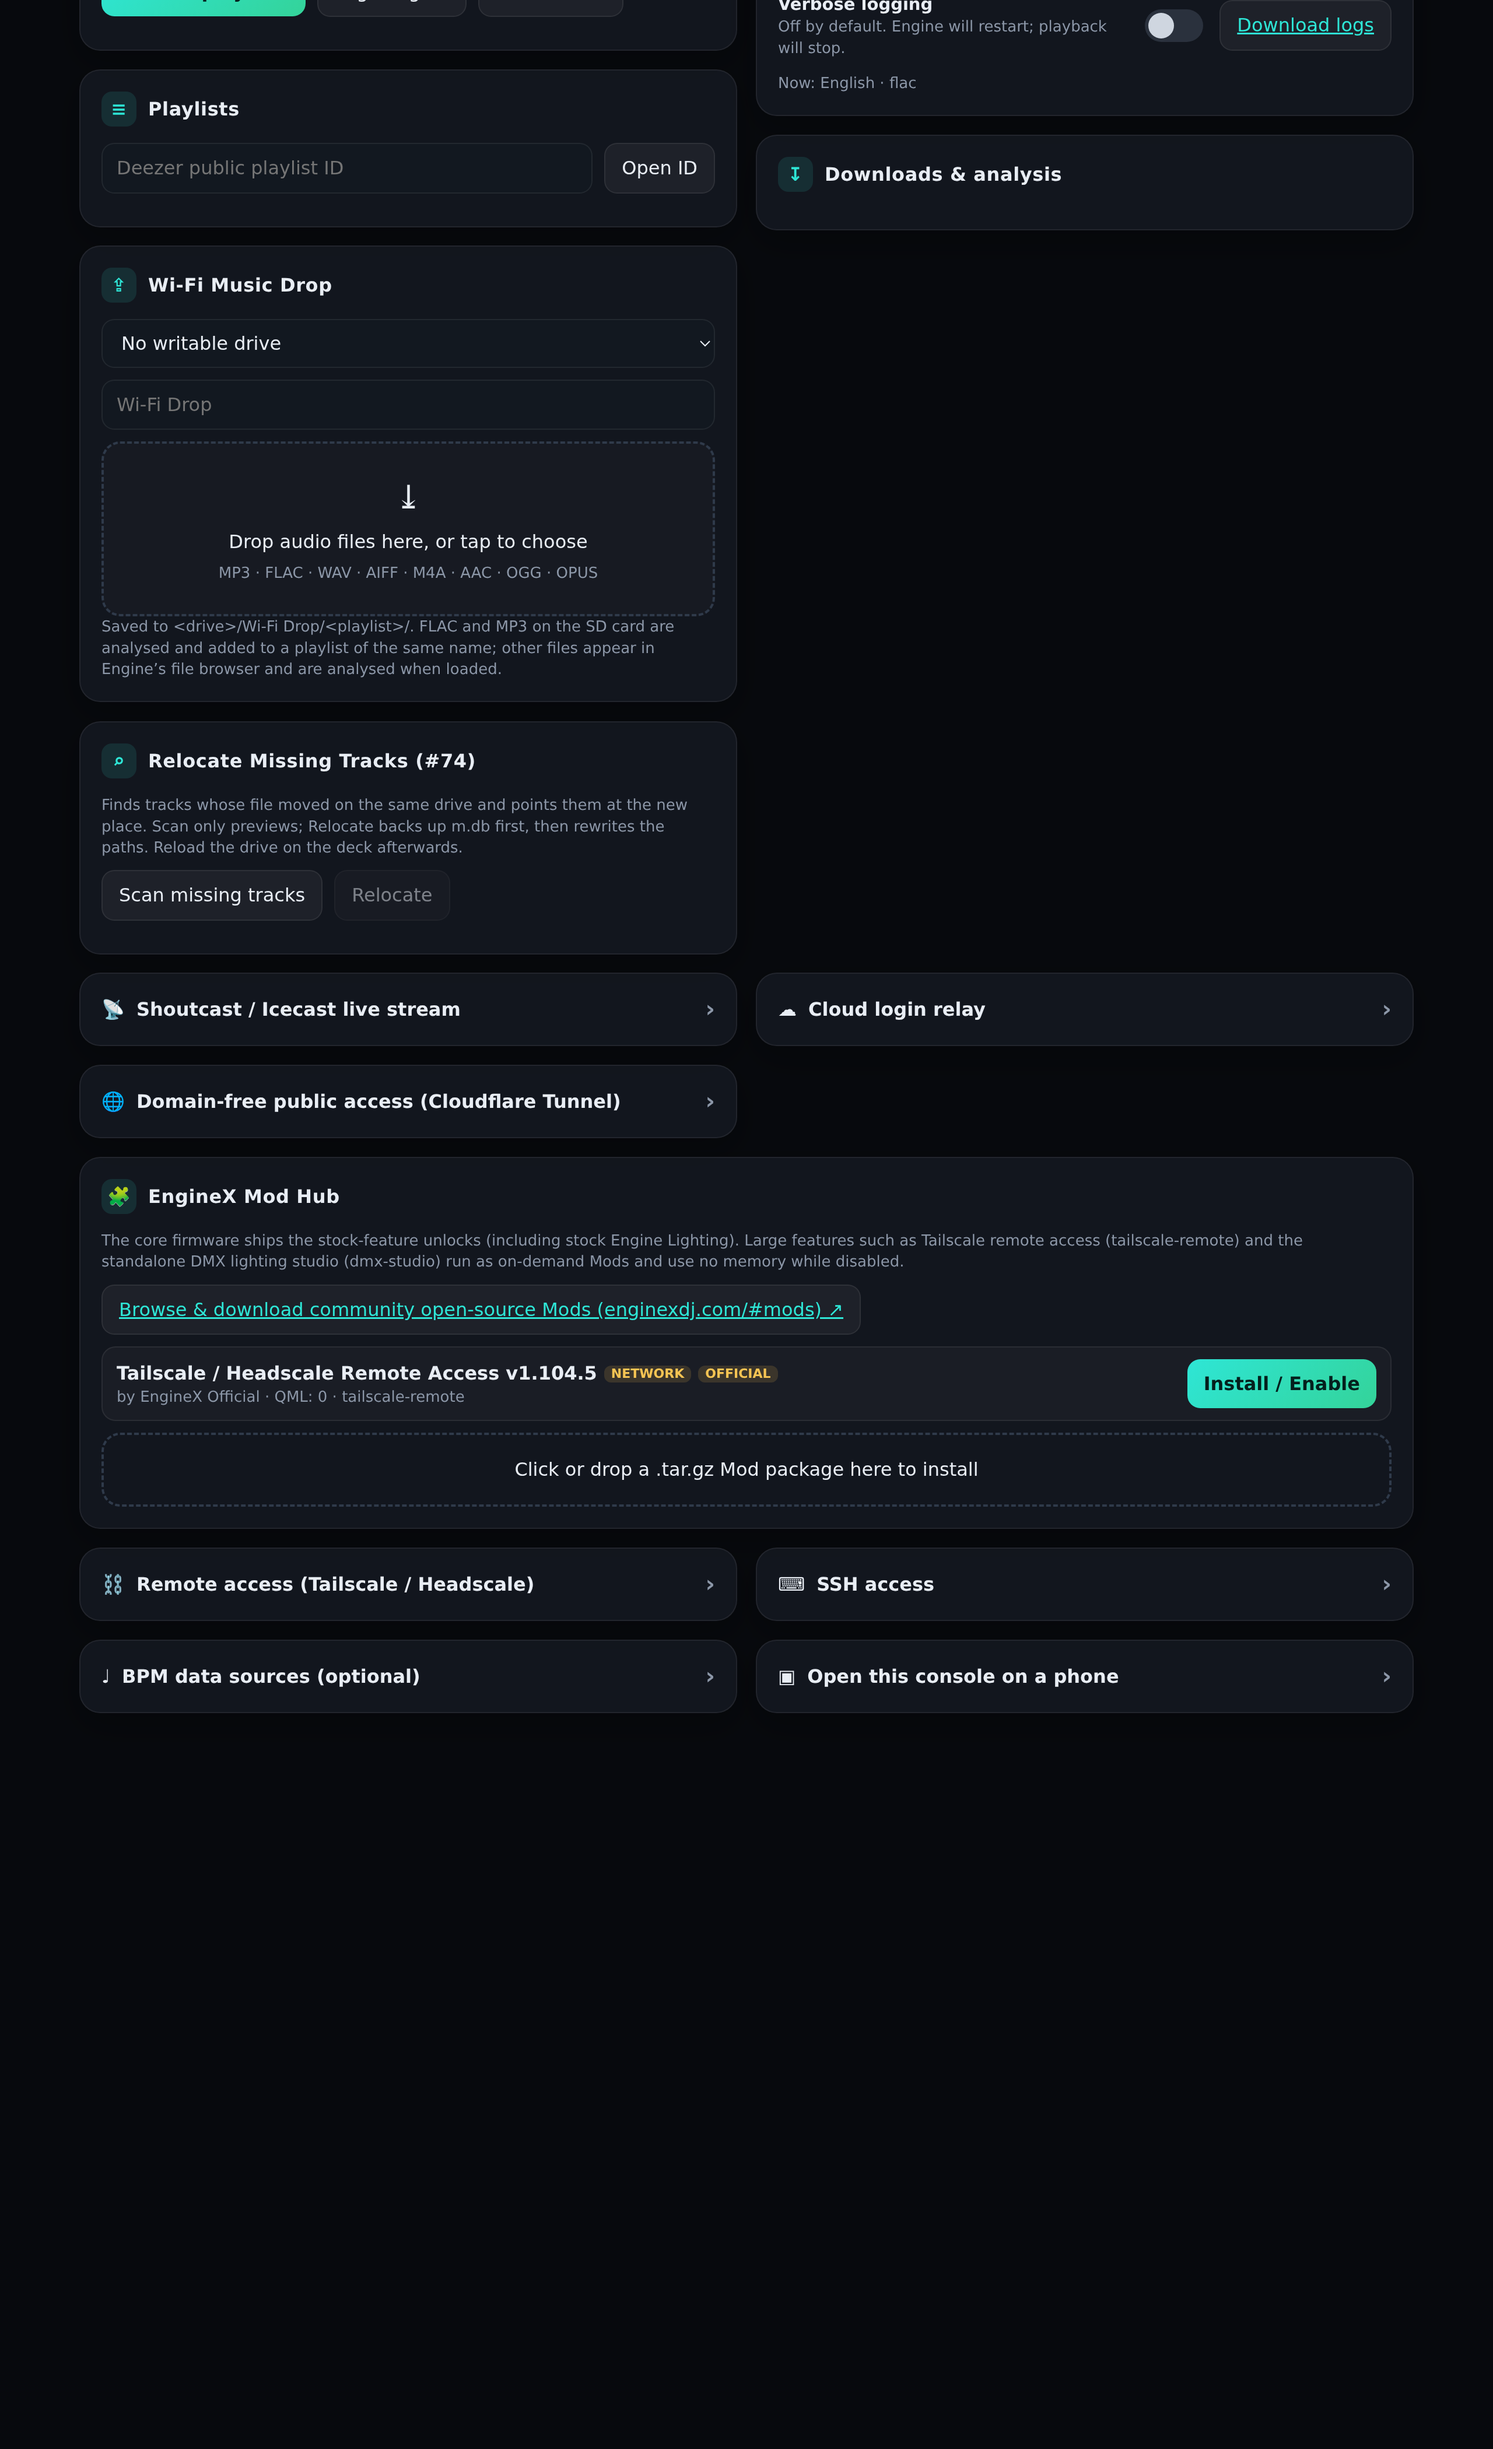
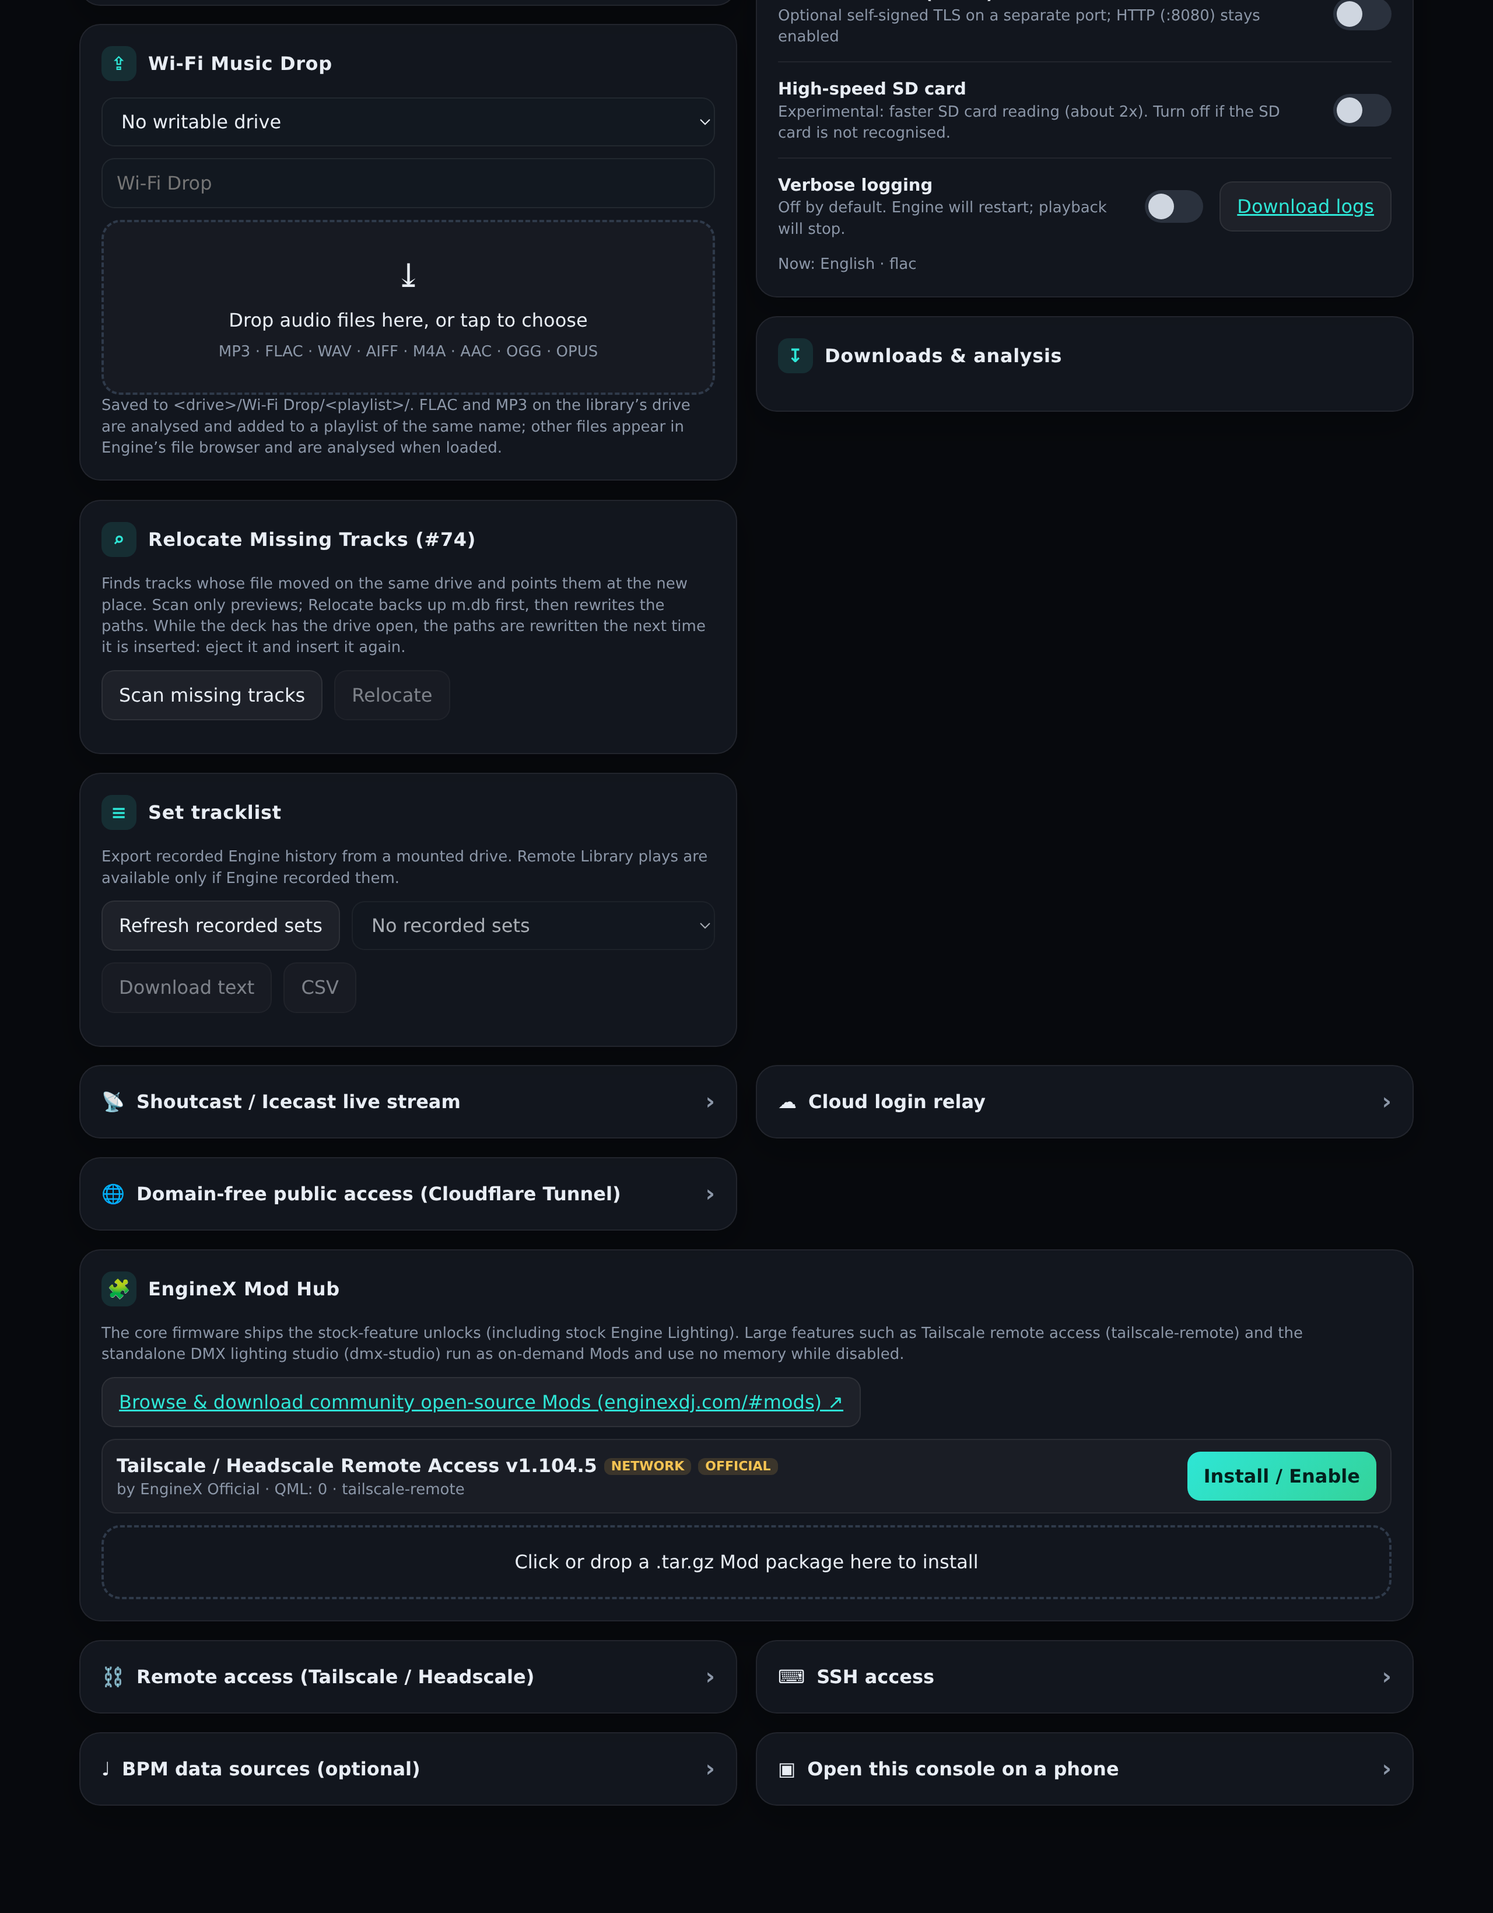
docs(shots): re-render the web console shots (14, 15) at 5.3.0.5 in three languages
v5.3.0.5 badge, Español button and deck language, Reverse jog wheel, Bluetooth speaker output,
HTTPS console, High-speed SD card and the Set tracklist card; 15 shows the lower cards. Captions
name the Set tracklist card; content.js cache parameter bumped.

diff --git a/docs/site/content.js b/docs/site/content.js
@@ -714,7 +714,7 @@
           L("曲库所在盘上的 FLAC / MP3 会自动分析并加入同名歌单；不覆盖已有文件，始终保留 256 MiB 空间。", "曲庫所在碟上的 FLAC / MP3 會自動分析並加入同名歌單；不覆蓋既有檔案，始終保留 256 MiB 空間。", "FLAC / MP3 on the library's drive are analysed and added to the same-named playlist automatically; existing files are never overwritten and 256 MiB stays free."),
         ] },
         { k: "shot", name: "14-webui-console.png", cap: L("Web 控制台（v" + V + "）：流媒体与账号、歌单、Wi-Fi 传歌、碟机显示与音频", "Web 主控台（v" + V + "）：串流與帳號、歌單、Wi-Fi 傳歌、碟機顯示與音訊", "Web console (v" + V + "): Streaming & accounts, Playlists, Wi-Fi Music Drop, and Deck display & audio") },
-        { k: "shot", name: "15-webui-wifi-drop.png", cap: L("Web 控制台（v" + V + "）：Wi-Fi 传歌、丢失曲目重定位、直播推流与 Mod 插件中心", "Web 主控台（v" + V + "）：Wi-Fi 傳歌、遺失曲目重新定位、直播推流與 Mod 外掛中心", "Web console (v" + V + "): Wi-Fi Music Drop, Relocate Missing Tracks, Live Stream, and Mod Hub") },
+        { k: "shot", name: "15-webui-wifi-drop.png", cap: L("Web 控制台（v" + V + "）：Wi-Fi 传歌、丢失曲目重定位、演出曲目表、直播推流与 Mod 插件中心", "Web 主控台（v" + V + "）：Wi-Fi 傳歌、遺失曲目重新定位、演出曲目表、直播推流與 Mod 外掛中心", "Web console (v" + V + "): Wi-Fi Music Drop, Relocate Missing Tracks, Set tracklist, Live Stream, and Mod Hub") },
         { k: "h", id: "relocate", x: L("曲库丢歌：一键重定位", "曲庫丟歌：一鍵重新定位", "Missing tracks: one-click relocate"), nav: L("一键重定位", "一鍵重新定位", "Relocate tracks") },
         { k: "p", x: L("同一张盘上的音频文件被移动或改名后，在「丢失曲目自动重定位」卡片先点 **「扫描丢失曲目」** 预览，再点 **「一键修复路径」**（自动备份曲库后改写路径），完成后在碟机上弹出该盘再重新插入（碟机正在使用该盘时，路径在重新插入时才改写，避免与 Engine 同时写曲库）。", "同一張磁碟上的音訊檔被移動或改名後，於「遺失曲目自動重新定位」卡片先點 **「掃描遺失曲目」** 預覽，再點 **「一鍵修復路徑」**（自動備份曲庫後改寫路徑），完成後在碟機上退出該磁碟再重新插入（碟機正在使用該磁碟時，路徑在重新插入時才改寫，避免與 Engine 同時寫曲庫）。", "When audio files on a drive are moved or renamed, open the “Relocate Missing Tracks” card, click **Scan missing tracks** to preview, then click **Relocate** (the library is backed up automatically before rewriting paths), then eject the drive on the deck and insert it again (while the deck has the drive open, the paths are rewritten when it is inserted again, so Engine and the console never write the library at the same time).") },
         { k: "h", id: "livestream", x: L("Live Stream：直播内录与推流", "Live Stream：直播內錄與推流", "Live Stream: capture & broadcast"), nav: L("Live Stream 直播", "Live Stream 直播", "Live Stream") },
